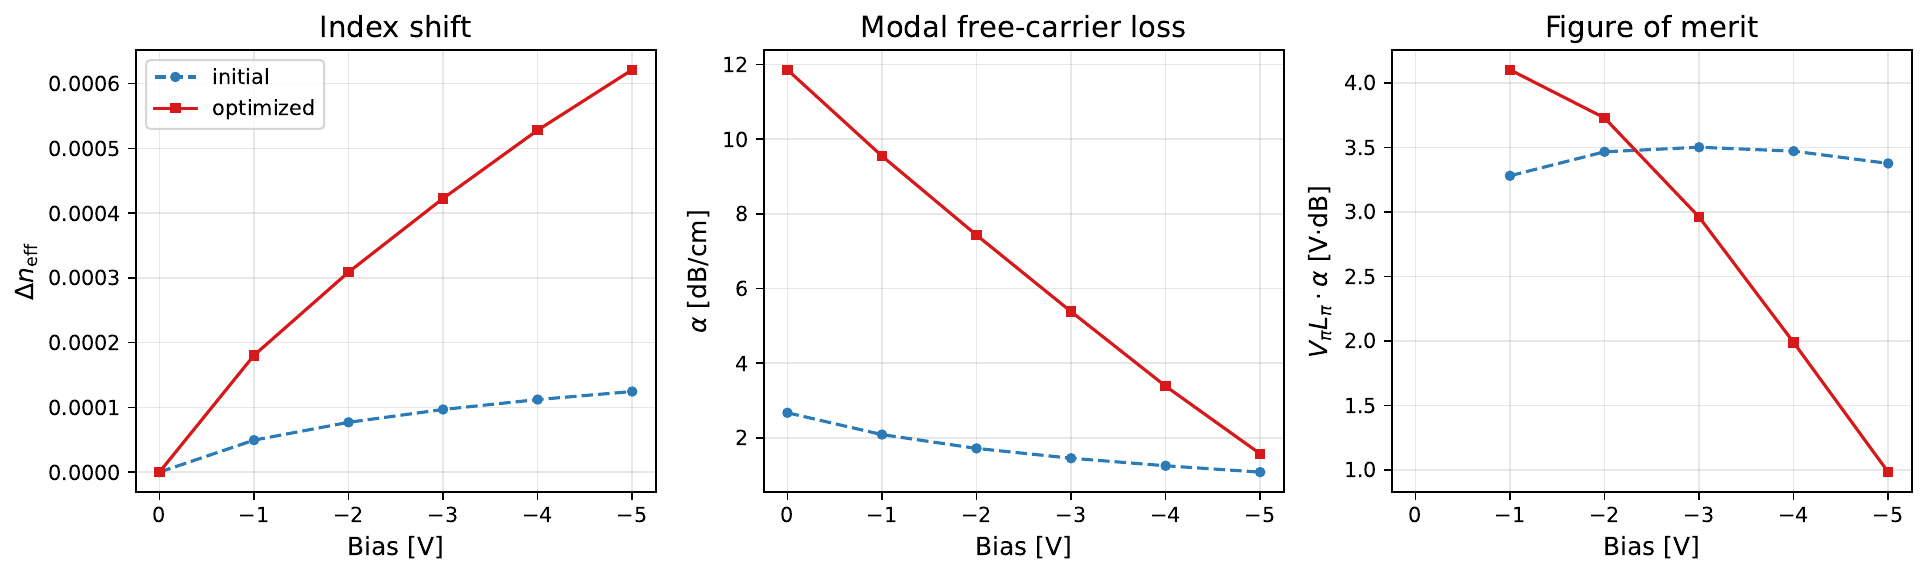
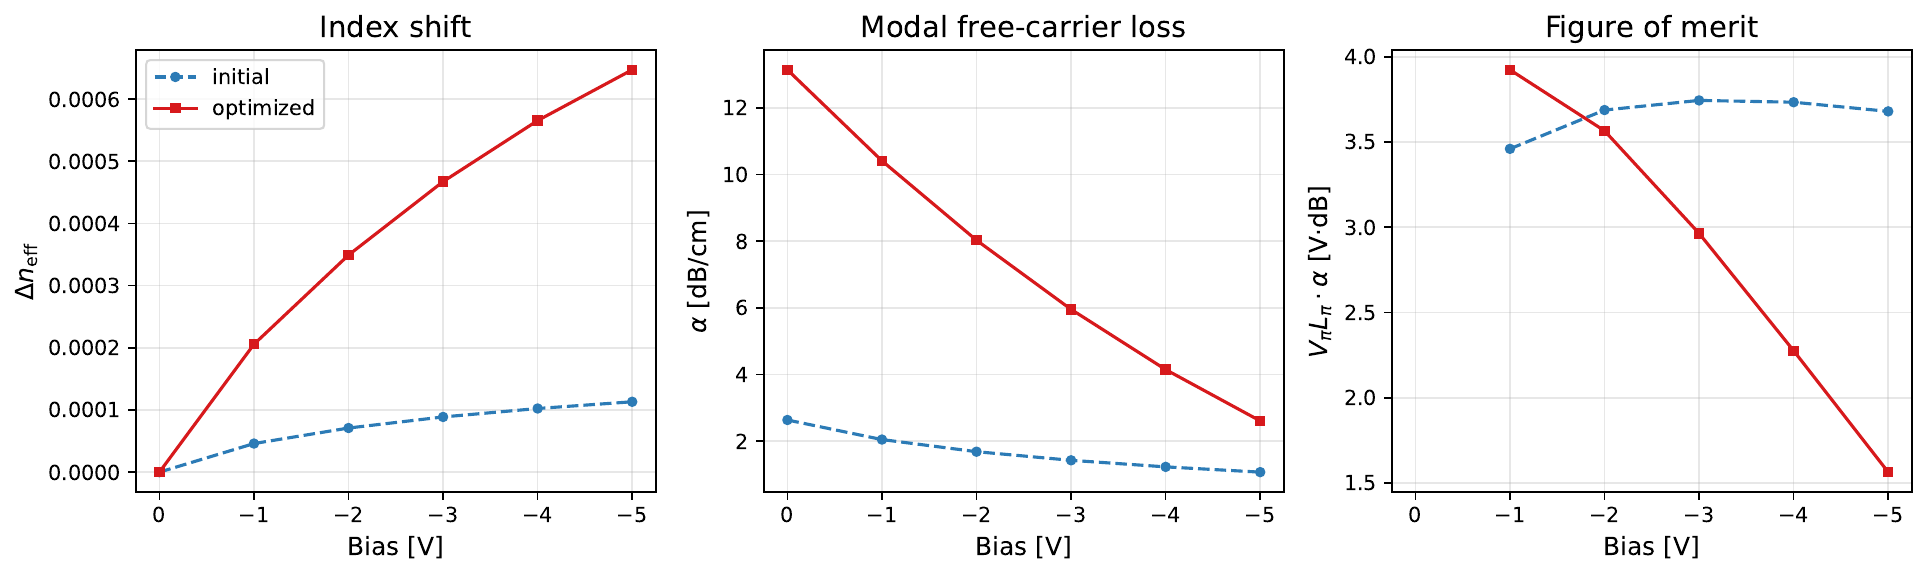
feat(results): headline run on the 0.03 um mesh, with a mesh study
Refines the headline from 0.05 to 0.03 um silicon elements (116 -> 324
design cells, 556 design variables) and reports all three refinements
side by side. Filter radius stays 0.1 um, a physical length, so the
minimum feature size is identical across meshes.

  0.05   dneff 6.21e-4   alpha 11.9   VpiLpi 0.62 V.cm   7.40 V.dB
  0.04   dneff 6.78e-4   alpha 14.2   VpiLpi 0.57 V.cm   8.10 V.dB
  0.03   dneff 6.47e-4   alpha 13.2   VpiLpi 0.60 V.cm   7.87 V.dB

All three cold-re-solve to the digit and reach the same topology, and
the mode-overlap weights agree to four digits, so the optics are
converged and the design is not a discretization artefact. VpiLpi
nonetheless spans 0.57-0.62 V.cm non-monotonically in element size: the
spread is which local optimum MMA settles into, not discretization
error, and the scope section now carries it as the uncertainty on the
headline.

The finer meshes also sharpen what the optimizer found: the U seed
closes into a ring, a p core at the doping ceiling enclosed by n on all
sides, maximising junction perimeter inside the mode. Figures and prose
regenerated from the 0.03 um run.

diff --git a/docs/results.md b/docs/results.md
@@ -1,15 +1,13 @@
 # Results
 
 All figures are from one run on the container mesh —
-`prismo run --use-containers --seed u --loss-weight 1e-5 --mesh-size 0.05 --r-min 0.1 --bias-sweep-points 6`
-(0.05 µm silicon elements, 0.1 µm filter radius), 192 MMA iterations in
-~49 min on a laptop; `outputs/` holds the PDFs of your own runs and
+`prismo run --use-containers --seed u --loss-weight 1e-5 --mesh-size 0.03 --r-min 0.1 --bias-sweep-points 6`
+(0.03 µm silicon elements, 0.1 µm filter radius, 556 design variables on
+324 design cells), 192 MMA iterations in ~34 min on a laptop; `outputs/` holds the PDFs of your own runs and
 `make figures` refreshes `docs/figures/` from them.
 
-The U-shaped seed is the best of the three (`lateral`, `vertical`, `u`) under
-identical settings: it reaches $V_\pi L_\pi = 0.62$ V·cm against 1.10 and
-1.04 V·cm, at a comparable efficiency–loss figure of merit. The MMA optimum is
-local, so the seed picks the basin.
+The U-shaped seed is the best of the three (`lateral`, `vertical`, `u`); the
+seed comparison and the mesh study below give the evidence.
 
 ## The gradient is validated before it is trusted
 
@@ -31,8 +29,8 @@ finite-difference round-off takes over (`make validate-gradient-containers`).
 ```
 
 From the seeded U-shaped junction, MMA raises $\Delta n_\mathrm{eff}$ at −5 V
-from $1.24\times10^{-4}$ to $6.21\times10^{-4}$ (×5), i.e. $V_\pi L_\pi$
-from 3.11 to **0.62 V·cm**. Dips are rejected trials of the move-limited MMA,
+from $1.13\times10^{-4}$ to $6.47\times10^{-4}$ (×5.7), i.e. $V_\pi L_\pi$
+from 3.42 to **0.60 V·cm**. Dips are rejected trials of the move-limited MMA,
 kept in the record on purpose. (`prismo run` also re-solves the reported
 design cold — worker reset, equilibrium from near-intrinsic, bias ramp — and
 flags any warm/cold discrepancy, so the headline is a property of the design,
@@ -45,8 +43,7 @@ not of the solve path.)
 
 The net doping the two solvers saw at every evaluation: red n-type, blue
 p-type, white the junction. The optimizer drives the rib to the doping ceiling
-and folds the U seed into a stacked junction whose interface runs across the
-full rib width.
+and closes the U seed into a ring: a p core enclosed by n on every side.
 
 ## Before / after
 
@@ -56,13 +53,12 @@ full rib width.
 ```
 
 Left: the seed, a U-shaped junction at $|N| \approx 3\times10^{17}\,\mathrm{cm^{-3}}$
-— n wrapped under and beside a p core. Right: the optimum — a p cap at the
-doping ceiling over an n body, the junction running horizontally across the
-whole rib width at the mode centre and curling down into the slab on the
-right, while the outer slab stays at the seed where the mode does not reach.
-Trading the seed's vertical junction walls for one wide horizontal interface is
-what buys the fivefold $\Delta n_\mathrm{eff}$: junction area inside the mode is
-the currency.
+— n wrapped under and beside a p core. Right: the optimum — the U has closed
+into a ring, a p core at the doping ceiling enclosed by n above, below and on
+both sides, with the junction sitting on the mode centre and the outer slab
+left at the seed where the mode does not reach. Closing the U is what buys the
+×5.7 in $\Delta n_\mathrm{eff}$: junction perimeter inside the mode is the
+currency, and a ring maximises it.
 
 ## Where the modulation happens
 
@@ -72,11 +68,12 @@ the currency.
 ```
 
 Carriers swept out between 0 V and −5 V at the optimum (orange, log scale),
-under the mode's $|E|$ contours. The depleted region now fills the rib
-cross-section and the slab beneath it, covering the mode peak almost entirely —
-against the seed, that overlap is the whole of the ×5. Doping the mode cannot
-see would be loss for nothing, and the objective knows it: the outer slab is
-left alone.
+under the mode's $|E|$ contours. Depletion wraps the ring junction and fills
+the rib cross-section, covering the mode peak almost entirely — that overlap is
+the whole of the ×5.7. The pale band through the middle is the p core's
+interior, too far from any junction to deplete; doping the mode cannot see
+would be loss for nothing, and the objective knows it: the outer slab is left
+alone.
 
 ## The loss is watched, not ignored
 
@@ -87,9 +84,9 @@ left alone.
 
 Modal free-carrier loss $\alpha$ of the unbiased device and the
 efficiency–loss figure of merit $V_\pi L_\pi\cdot\alpha$ at every iteration.
-The optimizer spends loss — 2.67 to 11.9 dB/cm — wherever it pays in
+The optimizer spends loss — 2.64 to 13.2 dB/cm — wherever it pays in
 $\Delta n_\mathrm{eff}$, which rises faster, so the figure of merit still
-improves from 8.3 to **7.4 V·dB** (good depletion modulators sit at
+improves from 9.0 to **7.9 V·dB** (good depletion modulators sit at
 10–30 V·dB). At $w = 10^{-5}$ the run travels along a near-constant
 $V_\pi L_\pi\cdot\alpha$ line while $V_\pi L_\pi$ falls fivefold: the weight,
 not the iteration count, is what moves the design across the trade-off.
@@ -106,7 +103,8 @@ curves outwards. `--loss-weight` is what moves the optimum between them.
 ## The seed picks the basin
 
 MMA finds a local optimum, so the starting topology matters. All three seeds
-(`--seed lateral|vertical|u`) under identical settings, 192 iterations each:
+(`--seed lateral|vertical|u`) under identical settings on the 0.05 µm mesh,
+192 iterations each:
 
 ```{list-table}
 :header-rows: 1
@@ -134,12 +132,59 @@ MMA finds a local optimum, so the starting topology matters. All three seeds
 ```
 
 The U seed wins by 1.8× on efficiency at a figure of merit within 6% of the
-best, which is why it is the default and the run shown above. The three land
+best, which is why it is the default. The three land
 1.8× apart from one another on $V_\pi L_\pi$ — a spread larger than anything
 the optimizer's own settings (filter radius, move limit, iteration count) move,
 so a multi-start is worth more than tuning the solver. The `lateral` run is also
 the one whose cold re-solve failed, leaving its number warm-path-dependent;
 `u` and `vertical` re-solved cold to the digit.
+
+## Mesh refinement
+
+The same U-seed run at three silicon element sizes, everything else identical
+(the filter radius is a physical length, so the minimum feature size is fixed
+at 0.1 µm across all three):
+
+```{list-table}
+:header-rows: 1
+
+* - element size [µm]
+  - design cells
+  - $\Delta n_\mathrm{eff}$
+  - $\alpha$ [dB/cm]
+  - $V_\pi L_\pi$ [V·cm]
+  - $V_\pi L_\pi\cdot\alpha$ [V·dB]
+* - 0.05
+  - 116
+  - $6.21\times10^{-4}$
+  - 11.9
+  - 0.62
+  - 7.40
+* - 0.04
+  - 196
+  - $6.78\times10^{-4}$
+  - 14.2
+  - 0.57
+  - 8.10
+* - 0.03
+  - 324
+  - $6.47\times10^{-4}$
+  - 13.2
+  - 0.60
+  - 7.87
+```
+
+All three cold-re-solve to the digit and find the same ring topology, so the
+design is not a discretization artefact. The numbers, though, do not order with
+element size: $V_\pi L_\pi$ spans 0.57–0.62 V·cm non-monotonically. That spread
+is not discretization error — it is which local optimum MMA settles into, and
+it is the honest uncertainty on the headline. The mode-overlap weights sum to
+0.5717 / 0.5719 / 0.5718 across the three, so the optical side is converged;
+what changes is the design freedom (116 to 324 cells) and the path the
+optimizer takes through it.
+
+The figures above are the 0.03 µm run — the finest mesh, and the smoothest
+picture of the same design.
 
 ## Across the operating range
 
@@ -151,17 +196,17 @@ the one whose cold re-solve failed, leaving its number warm-path-dependent;
 The reported figures of merit against reverse bias, seed and optimized design
 side by side — a post-run characterization (`--bias-sweep-points`), not part of
 the objective, which sees only the −5 V operating point.
-$\Delta n_\mathrm{eff}$ rises almost linearly to $6.21\times10^{-4}$ and stays
-about ×5 the seed at every bias, so the gain is not an artefact of the one
-voltage it was optimized at. The loss panel reads $\alpha$ from the carriers
+$\Delta n_\mathrm{eff}$ rises almost linearly to $6.47\times10^{-4}$ and stays
+4.5–5.7× the seed across the whole range, so the gain is not an artefact of the
+one voltage it was optimized at. The loss panel reads $\alpha$ from the carriers
 **at each bias** rather than the objective's fixed 0 V value, so it falls as the
-junction empties — 11.9 dB/cm unbiased to 1.6 dB/cm at −5 V — while the lightly
+junction empties — 13.2 dB/cm unbiased to 2.6 dB/cm at −5 V — while the lightly
 doped seed, already mostly depleted, barely moves.
 
-The product follows: $V_\pi L_\pi\cdot\alpha$ improves from 4.10 V·dB at −1 V to
-**0.98 V·dB at −5 V**, crossing below the seed near −2 V. Above that the seed's
+The product follows: $V_\pi L_\pi\cdot\alpha$ improves from 3.92 V·dB at −1 V to
+**1.56 V·dB at −5 V**, crossing below the seed just past −2 V. Above that the seed's
 lighter doping still wins on the product — the design was optimized at −5 V and
-it shows. (These are bias-resolved $\alpha$ values; the 7.4 V·dB headline above
+it shows. (These are bias-resolved $\alpha$ values; the 7.9 V·dB headline above
 uses the objective's 0 V loss, which is the pessimistic reading.)
 
 ## The mode
@@ -177,5 +222,6 @@ The tracked fundamental guided mode of the rib on the shared mesh
 ## Scope
 
 2D cross-section, one bias pair (0 / −5 V), first-order (overlap-weighted)
-loss on the rib cells only, Boltzmann statistics, no implant process model — a
+loss on the rib cells only, Boltzmann statistics, no implant process model, and
+a headline carrying the ±5% local-optimum spread the mesh study measures — a
 prototype that points at the real device, not a tape-out.

diff --git a/README.md b/README.md
@@ -103,13 +103,12 @@ mode order; a different TCAD backend would only need the same `apply`/VJP).
 ## Results
 
 All figures are from one run on the container mesh —
-`prismo run --use-containers --seed u --loss-weight 1e-5 --mesh-size 0.05 --r-min 0.1 --bias-sweep-points 6`
-(0.05 µm silicon elements, 0.1 µm filter radius), 192 MMA iterations in
-~49 min on a laptop; `outputs/` holds the PDFs of your own runs and
+`prismo run --use-containers --seed u --loss-weight 1e-5 --mesh-size 0.03 --r-min 0.1 --bias-sweep-points 6`
+(0.03 µm silicon elements, 0.1 µm filter radius, 556 design variables on
+324 design cells), 192 MMA iterations in ~34 min on a laptop; `outputs/` holds the PDFs of your own runs and
 `make figures` refreshes `docs/figures/` from them. The U-shaped seed is the
-best of the three (`lateral`, `vertical`, `u`) under identical settings —
-VπLπ 0.62 V·cm against 1.10 and 1.04 — because the MMA optimum is local and the
-seed picks the basin. The gradient is validated before it is trusted:
+best of the three (`lateral`, `vertical`, `u`); the seed comparison and the mesh
+study below give the evidence. The gradient is validated before it is trusted:
 
 <p align="center"><img src="docs/figures/gradient_validation.png" width="520"></p>
 
@@ -121,8 +120,8 @@ round-off takes over. (`make validate-gradient-containers`)
 <p align="center"><img src="docs/figures/convergence.png" width="520"></p>
 
 **The gradients do the work.** From the seeded U-shaped junction, MMA raises
-Δn_eff at −5 V from 1.24 × 10⁻⁴ to 6.21 × 10⁻⁴ (×5), i.e. **VπLπ from 3.11 to
-0.62 V·cm**. Dips are rejected trials of the move-limited MMA, kept in the
+Δn_eff at −5 V from 1.13 × 10⁻⁴ to 6.47 × 10⁻⁴ (×5.7), i.e. **VπLπ from 3.42 to
+0.60 V·cm**. Dips are rejected trials of the move-limited MMA, kept in the
 record on purpose. (`prismo run` also re-solves the reported design cold —
 worker reset, equilibrium from near-intrinsic, bias ramp — and flags any
 warm/cold discrepancy, so the headline is a property of the design, not of
@@ -131,29 +130,30 @@ the solve path.)
 <p align="center"><img src="docs/figures/doping_field.png" width="760"></p>
 
 **Before / after.** Left: the seed, a U-shaped junction at |N| ≈ 3 × 10¹⁷ cm⁻³
-— n wrapped under and beside a p core. Right: the optimum — a p cap at the
-doping ceiling over an n body, the junction running horizontally across the
-whole rib width at the mode centre and curling down into the slab on the right,
-while the outer slab stays at the seed where the mode does not reach. Trading
-the seed's vertical junction walls for one wide horizontal interface is what
-buys the fivefold Δn_eff: junction area inside the mode is the currency.
+— n wrapped under and beside a p core. Right: the optimum — the U has closed
+into a ring, a p core at the doping ceiling enclosed by n above, below and on
+both sides, with the junction on the mode centre and the outer slab left at the
+seed where the mode does not reach. Closing the U is what buys the ×5.7 in
+Δn_eff: junction perimeter inside the mode is the currency, and a ring
+maximises it.
 
 <p align="center"><img src="docs/figures/depletion_field.png" width="760"></p>
 
 **Where the modulation happens.** Carriers swept out between 0 V and −5 V at
-the optimum (orange, log scale), under the mode's |E| contours. The depleted
-region fills the rib cross-section and the slab beneath it, covering the mode
-peak almost entirely — against the seed, that overlap is the whole of the ×5.
-Doping the mode cannot see would be loss for nothing, and the objective knows
-it: the outer slab is left alone.
+the optimum (orange, log scale), under the mode's |E| contours. Depletion wraps
+the ring junction and fills the rib cross-section, covering the mode peak almost
+entirely — that overlap is the whole of the ×5.7. The pale band through the
+middle is the p core's interior, too far from any junction to deplete; doping
+the mode cannot see would be loss for nothing, and the objective knows it: the
+outer slab is left alone.
 
 <p align="center"><img src="docs/figures/loss_convergence.png" width="520"></p>
 
 **The loss is watched, not ignored.** Modal free-carrier loss α of the unbiased
 device (first-order, overlap-weighted Soref–Bennett absorption) and the
 literature's efficiency–loss figure of merit VπLπ·α at every iteration. The
-optimizer spends loss — 2.67 to 11.9 dB/cm — wherever it pays in Δn_eff, which
-rises faster, so the figure of merit still improves from 8.3 to **7.4 V·dB**
+optimizer spends loss — 2.64 to 13.2 dB/cm — wherever it pays in Δn_eff, which
+rises faster, so the figure of merit still improves from 9.0 to **7.9 V·dB**
 (good depletion modulators sit at 10–30 V·dB). At w = 10⁻⁵ the run travels along
 a near-constant VπLπ·α line while VπLπ falls fivefold: the weight, not the
 iteration count, is what moves the design across the trade-off.
@@ -165,7 +165,8 @@ iteration count, is what moves the design across the trade-off.
 curves outwards. `--loss-weight` is what moves the optimum between them.
 
 **The seed picks the basin.** MMA finds a local optimum, so the starting
-topology matters. All three seeds under identical settings, 192 iterations each:
+topology matters. All three seeds under identical settings on the 0.05 µm mesh,
+192 iterations each:
 
 | seed | Δn_eff | α [dB/cm] | VπLπ [V·cm] | VπLπ·α [V·dB] |
 |---|---|---|---|---|
@@ -174,27 +175,48 @@ topology matters. All three seeds under identical settings, 192 iterations each:
 | `vertical` | 3.74 × 10⁻⁴ | 8.84 | 1.04 | 9.16 |
 
 The U seed wins by 1.8× on efficiency at a figure of merit within 6% of the
-best, which is why it is the default and the run shown above. The spread across
+best, which is why it is the default. The spread across
 seeds is larger than anything the optimizer's own settings move, so a
 multi-start is worth more than tuning the solver. The `lateral` run is also the
 one whose cold re-solve failed, leaving its number warm-path-dependent; `u` and
 `vertical` re-solved cold to the digit.
+
+**Mesh refinement.** The same U-seed run at three silicon element sizes,
+everything else identical (the filter radius is a physical length, so the
+minimum feature size is fixed at 0.1 µm across all three):
+
+| element size [µm] | design cells | Δn_eff | α [dB/cm] | VπLπ [V·cm] | VπLπ·α [V·dB] |
+|---|---|---|---|---|---|
+| 0.05 | 116 | 6.21 × 10⁻⁴ | 11.9 | 0.62 | 7.40 |
+| 0.04 | 196 | 6.78 × 10⁻⁴ | 14.2 | 0.57 | 8.10 |
+| 0.03 | 324 | 6.47 × 10⁻⁴ | 13.2 | 0.60 | 7.87 |
+
+All three cold-re-solve to the digit and find the same ring topology, so the
+design is not a discretization artefact. The numbers, though, do not order with
+element size: VπLπ spans 0.57–0.62 V·cm non-monotonically. That spread is not
+discretization error — it is which local optimum MMA settles into, and it is the
+honest uncertainty on the headline. The mode-overlap weights sum to 0.5717 /
+0.5719 / 0.5718 across the three, so the optical side is converged; what changes
+is the design freedom and the path the optimizer takes through it. The figures
+here are the 0.03 µm run — the finest mesh, and the smoothest picture of the
+same design.
 
 <p align="center"><img src="docs/figures/bias_sweep.png" width="760"></p>
 
 **Across the operating range.** The reported figures of merit against reverse
 bias, seed and optimized design side by side — a post-run characterization
 (`--bias-sweep-points`), not part of the objective, which sees only the −5 V
-operating point. Δn_eff rises almost linearly to 6.21 × 10⁻⁴ and stays about ×5
-the seed at every bias, so the gain is not an artefact of the one voltage it was
-optimized at. The loss panel reads α from the carriers **at each bias** rather
-than the objective's fixed 0 V value, so it falls as the junction empties —
-11.9 dB/cm unbiased to 1.6 dB/cm at −5 V — while the lightly doped seed, already
-mostly depleted, barely moves. The product follows: VπLπ·α improves from
-4.10 V·dB at −1 V to **0.98 V·dB at −5 V**, crossing below the seed near −2 V;
-above that the seed's lighter doping still wins on the product — the design was
-optimized at −5 V and it shows. (These are bias-resolved α values; the 7.4 V·dB
-headline above uses the objective's 0 V loss, the pessimistic reading.)
+operating point. Δn_eff rises almost linearly to 6.47 × 10⁻⁴ and stays 4.5–5.7×
+the seed across the whole range, so the gain is not an artefact of the one
+voltage it was optimized at. The loss panel reads α from the carriers **at each
+bias** rather than the objective's fixed 0 V value, so it falls as the junction
+empties — 13.2 dB/cm unbiased to 2.6 dB/cm at −5 V — while the lightly doped
+seed, already mostly depleted, barely moves. The product follows: VπLπ·α
+improves from 3.92 V·dB at −1 V to **1.56 V·dB at −5 V**, crossing below the
+seed just past −2 V; above that the seed's lighter doping still wins on the
+product — the design was optimized at −5 V and it shows. (These are
+bias-resolved α values; the 7.9 V·dB headline above uses the objective's 0 V
+loss, the pessimistic reading.)
 
 <p align="center"><img src="docs/figures/mode_field.png" width="420"></p>
 

diff --git a/docs/glossary.md b/docs/glossary.md
@@ -160,7 +160,7 @@ Two readings differ from the optimizer's own numbers. Δneff is measured against
 
 ## Junction seed (lateral / vertical / U)
 
-`prismo run --seed {u,lateral,vertical}` picks the initial topology on the design nodes at `|θ| = 0.3` (`pipeline.seed_design_field`); `u` is the CLI default, being the best of the three on the container mesh. `lateral` is the **seeded junction** above. `vertical`: in the rib, n-type below the rib's mid-height and p-type above it, with a p column along the rib's right wall (a quarter of the rib width) joining the p top to the right slab; the slab itself stays lateral. `u`: n-type wraps under (the lower third of the rib) and beside (the left wall and left slab) a p core, which with the right wall and right slab is p-type. Every seed keeps n-type on the left slab edge (anode) and p-type on the right (cathode at −5 V), so both carrier populations reach a contact and the seed is reverse-biased. The MMA optimum is local, so the seed picks the basin: under matched settings the `u` seed reaches VπLπ = 0.62 V·cm against 1.10 (`lateral`) and 1.04 (`vertical`), and its optimum is a p cap at the doping ceiling over an n body, the junction running horizontally across the rib at the mode centre. The `lateral` seed's own optimum is an L-shaped junction, the 2D cross-section of the literature's L-/U-shaped junctions.
+`prismo run --seed {u,lateral,vertical}` picks the initial topology on the design nodes at `|θ| = 0.3` (`pipeline.seed_design_field`); `u` is the CLI default, being the best of the three on the container mesh. `lateral` is the **seeded junction** above. `vertical`: in the rib, n-type below the rib's mid-height and p-type above it, with a p column along the rib's right wall (a quarter of the rib width) joining the p top to the right slab; the slab itself stays lateral. `u`: n-type wraps under (the lower third of the rib) and beside (the left wall and left slab) a p core, which with the right wall and right slab is p-type. Every seed keeps n-type on the left slab edge (anode) and p-type on the right (cathode at −5 V), so both carrier populations reach a contact and the seed is reverse-biased. The MMA optimum is local, so the seed picks the basin: under matched settings on the 0.05 µm mesh the `u` seed reaches VπLπ = 0.62 V·cm against 1.10 (`lateral`) and 1.04 (`vertical`), and on every mesh its optimum closes the U into a ring — a p core at the doping ceiling enclosed by n on all sides, the junction sitting on the mode centre. The `lateral` seed's own optimum is an L-shaped junction, the 2D cross-section of the literature's L-/U-shaped junctions.
 
 ## Contact offset / domain width
 
